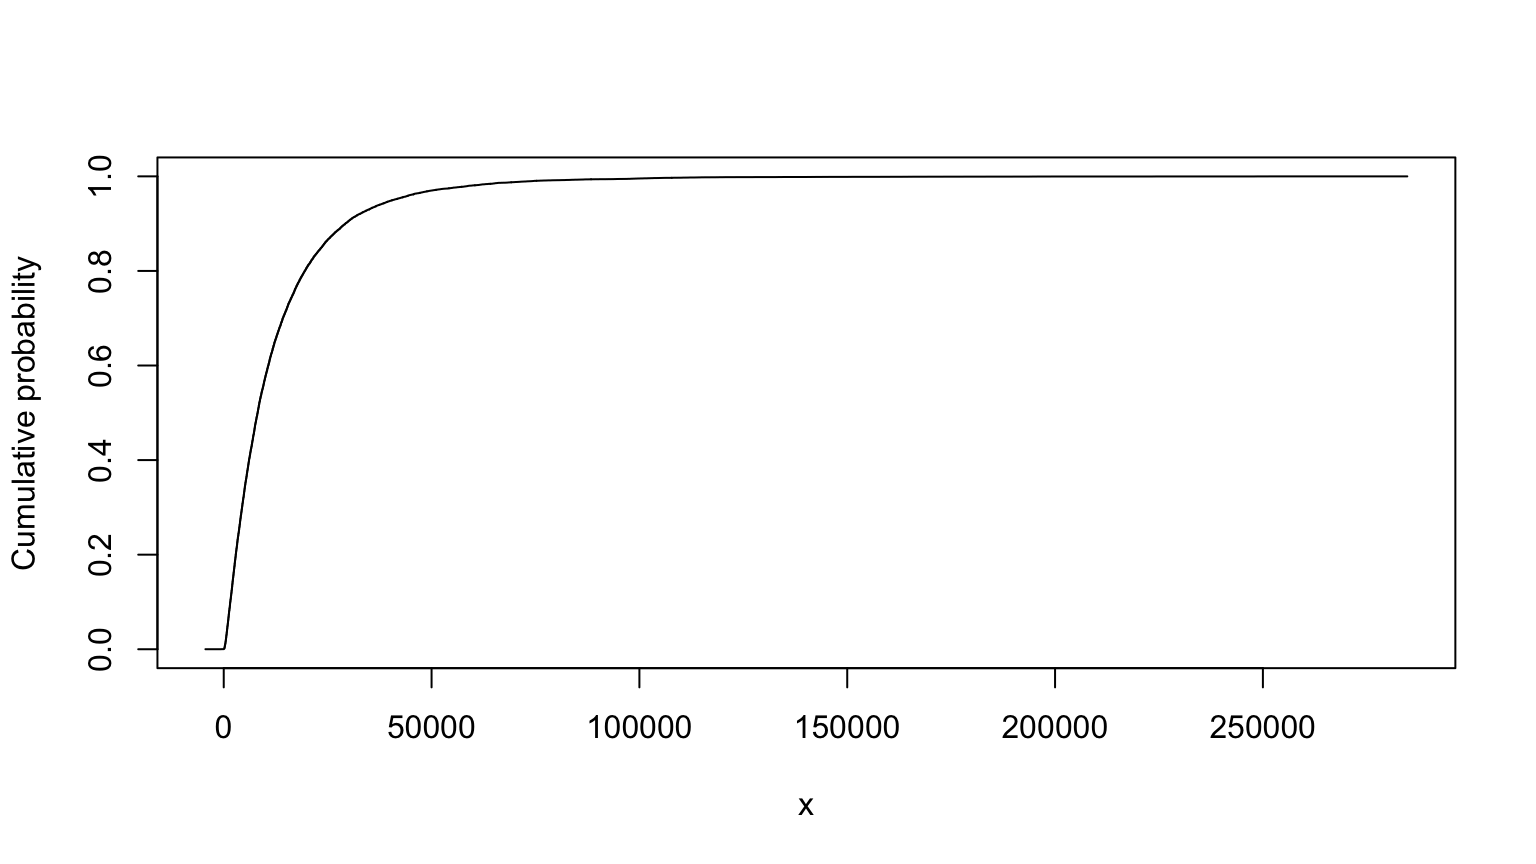
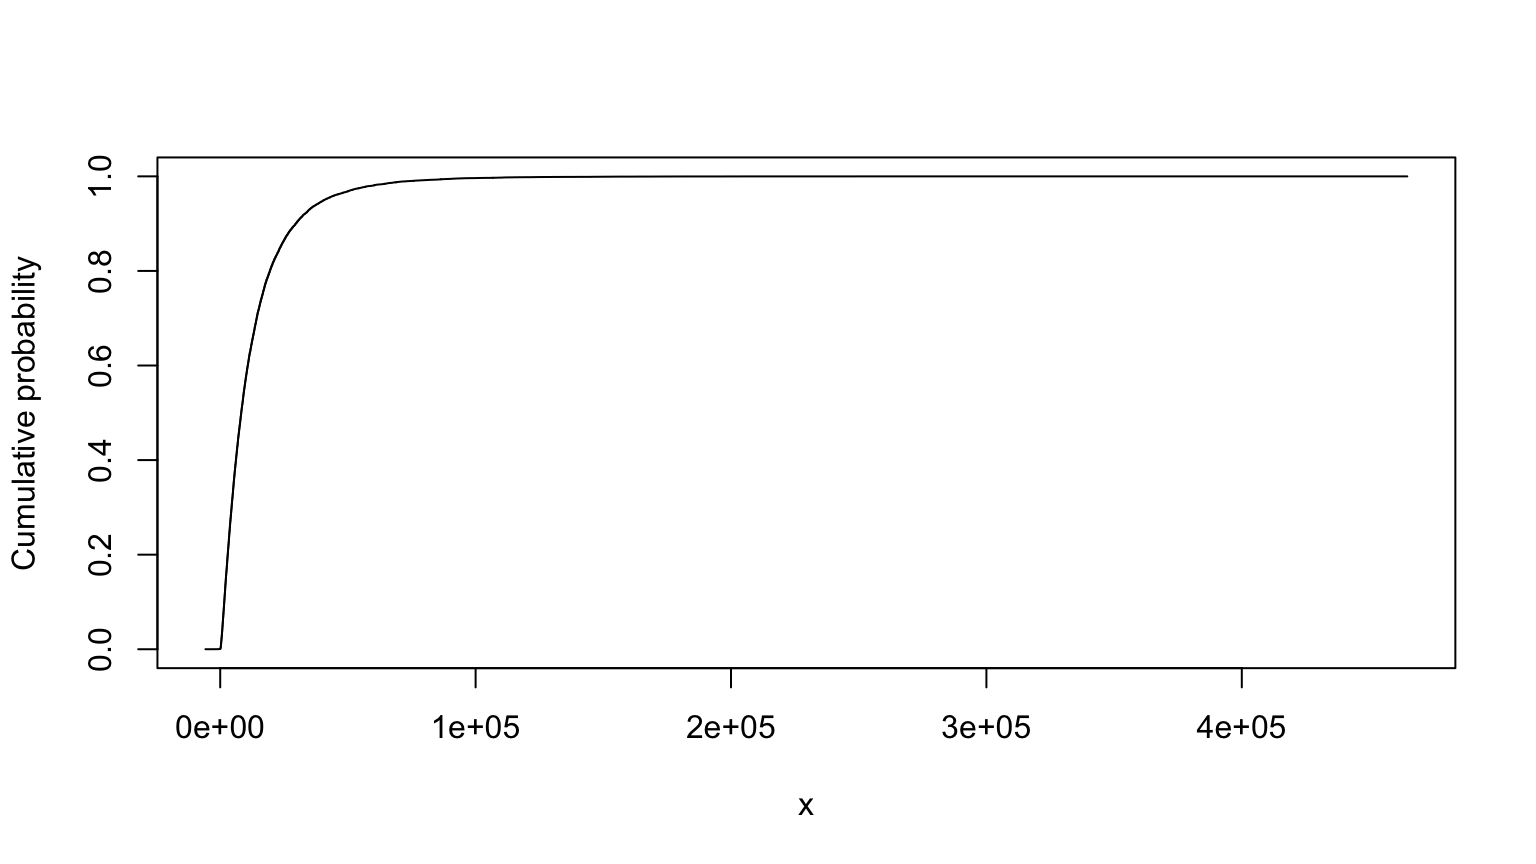
build_analysis_site() for release 1.0.16

diff --git a/docs/workshop.html b/docs/workshop.html
@@ -14,7 +14,7 @@
 
 <title>SRA Workshop 7</title>
 
-<script src="site_libs/header-attrs-2.23/header-attrs.js"></script>
+<script src="site_libs/header-attrs-2.24/header-attrs.js"></script>
 <script src="site_libs/jquery-3.6.0/jquery-3.6.0.min.js"></script>
 <meta name="viewport" content="width=device-width, initial-scale=1" />
 <link href="site_libs/bootstrap-3.3.5/css/bootstrap.min.css" rel="stylesheet" />
@@ -431,25 +431,25 @@ T &lt;- (n + BD * foc * Koc) * L / (K * i) # all variables assumed independent
 summary(T)</code></pre>
 <pre><code>## 
 ## Monte Carlo distribution summary
-##   Mean: 13010.02
-##   Variance: 249741838
-##   Std Deviation: 15803.22
-##   Width of interquartile range: 12994.79
-##   Width of overall range: 289122.8
+##   Mean: 13020.6
+##   Variance: 243741351
+##   Std Deviation: 15612.22
+##   Width of interquartile range: 12907.38
+##   Width of overall range: 470550.9
 ##   Order statistics
-##      Left (min) value: -4384.51
-##      1st percentile: 355.1352
-##      5th percentile: 930.3786
-##      25th percentile: 3652.059
-##      Median (50th%ile): 8152.966
-##      75th percentile: 16646.85
-##      95th percentile: 40666.13
-##      99th percentile: 74208.94
-##      Right (max) value: 284738.3
+##      Left (min) value: -5755.258
+##      1st percentile: 322.0654
+##      5th percentile: 929.6737
+##      25th percentile: 3673.525
+##      Median (50th%ile): 8243.558
+##      75th percentile: 16580.9
+##      95th percentile: 40786.8
+##      99th percentile: 73903.69
+##      Right (max) value: 464795.7
 ##   Replications: 20000</code></pre>
 <pre class="r"><code>T</code></pre>
 <p><img src="workshop_files/figure-html/T-1.png" width="768" /></p>
-<pre><code>## MC (min=-4384.5096484057, median=8152.96604184288, mean=13010.0155513066, max=284738.258430836)</code></pre>
+<pre><code>## MC (min=-5755.25808770771, median=8243.55765662944, mean=13020.5990639135, max=464795.684825082)</code></pre>
 <pre class="r"><code># nolint end</code></pre>
 <p>Truncated version, from slide 40:</p>
 <pre class="r"><code># nolint start
@@ -469,25 +469,25 @@ T &lt;- (n + BD * foc * Koc) * L / (K * i)
 summary(T)</code></pre>
 <pre><code>## 
 ## Monte Carlo distribution summary
-##   Mean: 12292.26
-##   Variance: 162235194
-##   Std Deviation: 12737.16
-##   Width of interquartile range: 12415.68
-##   Width of overall range: 129198
+##   Mean: 12176.79
+##   Variance: 156400649
+##   Std Deviation: 12506.02
+##   Width of interquartile range: 12313.84
+##   Width of overall range: 120542.6
 ##   Order statistics
-##      Left (min) value: 86.15108
-##      1st percentile: 409.5533
-##      5th percentile: 946.0121
-##      25th percentile: 3805.604
-##      Median (50th%ile): 8270.41
-##      75th percentile: 16221.29
-##      95th percentile: 37889.92
-##      99th percentile: 60482.54
-##      Right (max) value: 129284.2
+##      Left (min) value: 83.91045
+##      1st percentile: 381.3782
+##      5th percentile: 993.4511
+##      25th percentile: 3825.729
+##      Median (50th%ile): 8138.908
+##      75th percentile: 16139.57
+##      95th percentile: 37166.27
+##      99th percentile: 59363.52
+##      Right (max) value: 120626.5
 ##   Replications: 20000</code></pre>
 <pre class="r"><code>T</code></pre>
 <p><img src="workshop_files/figure-html/T_truncated-1.png" width="768" /></p>
-<pre><code>## MC (min=86.1510752628033, median=8270.40973405153, mean=12292.2628424022, max=129284.190969308)</code></pre>
+<pre><code>## MC (min=83.910449162993, median=8138.90758184003, mean=12176.7923273256, max=120626.485598163)</code></pre>
 <pre class="r"><code># nolint end</code></pre>
 <p>Maximum entropy version, from slide 70:</p>
 <p>T and Tind are pretty similar. In this case, the maximum entropy
@@ -506,25 +506,25 @@ Tind &lt;- (n + BD * foc * Koc) * L / (K * i)
 summary(Tind)</code></pre>
 <pre><code>## 
 ## Monte Carlo distribution summary
-##   Mean: 13870.6
-##   Variance: 229713524
-##   Std Deviation: 15156.3
-##   Width of interquartile range: 15357.99
-##   Width of overall range: 146966.5
+##   Mean: 14019.65
+##   Variance: 231998151
+##   Std Deviation: 15231.49
+##   Width of interquartile range: 15358.78
+##   Width of overall range: 161737.7
 ##   Order statistics
-##      Left (min) value: 92.90831
-##      1st percentile: 339.9302
-##      5th percentile: 946.0153
-##      25th percentile: 3634.461
-##      Median (50th%ile): 8417.248
-##      75th percentile: 18992.45
-##      95th percentile: 44922.04
-##      99th percentile: 70276.94
-##      Right (max) value: 147059.4
+##      Left (min) value: 78.2941
+##      1st percentile: 334.1201
+##      5th percentile: 942.793
+##      25th percentile: 3731.272
+##      Median (50th%ile): 8614.646
+##      75th percentile: 19090.05
+##      95th percentile: 44875.82
+##      99th percentile: 70952.71
+##      Right (max) value: 161816
 ##   Replications: 20000</code></pre>
 <pre class="r"><code>Tind</code></pre>
 <p><img src="workshop_files/figure-html/Tind-1.png" width="768" /></p>
-<pre><code>## MC (min=92.9083074200587, median=8417.24759081494, mean=13870.5955474431, max=147059.391390288)</code></pre>
+<pre><code>## MC (min=78.2941028686568, median=8614.64627911851, mean=14019.6521202794, max=161815.978584815)</code></pre>
 <pre class="r"><code># nolint end</code></pre>
 </div>
 <div id="probability-bounds-analysis" class="section level1">

diff --git a/docs/news/index.html b/docs/news/index.html
@@ -17,7 +17,7 @@
       </button>
       <span class="navbar-brand">
         <a class="navbar-link" href="../index.html">workshop7</a>
-        <span class="version label label-default" data-toggle="tooltip" data-placement="bottom" title="">1.0.15</span>
+        <span class="version label label-default" data-toggle="tooltip" data-placement="bottom" title="">1.0.16</span>
       </span>
     </div>
 
@@ -60,6 +60,10 @@
       <small>Source: <a href="https://github.com/jabenninghoff/workshop7/blob/HEAD/NEWS.md" class="external-link"><code>NEWS.md</code></a></small>
     </div>
 
+    <div class="section level2">
+<h2 class="page-header" data-toc-text="1.0.16" id="workshop7-1016">workshop7 1.0.16<a class="anchor" aria-label="anchor" href="#workshop7-1016"></a></h2>
+<ul><li>Maintenance updates</li>
+</ul></div>
     <div class="section level2">
 <h2 class="page-header" data-toc-text="1.0.15" id="workshop7-1015">workshop7 1.0.15<a class="anchor" aria-label="anchor" href="#workshop7-1015"></a></h2>
 <ul><li>Maintenance updates</li>

diff --git a/docs/404.html b/docs/404.html
@@ -32,7 +32,7 @@
       </button>
       <span class="navbar-brand">
         <a class="navbar-link" href="https://jabenninghoff.github.io/workshop7/index.html">workshop7</a>
-        <span class="version label label-default" data-toggle="tooltip" data-placement="bottom" title="">1.0.15</span>
+        <span class="version label label-default" data-toggle="tooltip" data-placement="bottom" title="">1.0.16</span>
       </span>
     </div>
 

diff --git a/docs/workshop-notes.html b/docs/workshop-notes.html
@@ -14,7 +14,7 @@
 
 <title>SRA Workshop 7 Notes</title>
 
-<script src="site_libs/header-attrs-2.23/header-attrs.js"></script>
+<script src="site_libs/header-attrs-2.24/header-attrs.js"></script>
 <script src="site_libs/jquery-3.6.0/jquery-3.6.0.min.js"></script>
 <meta name="viewport" content="width=device-width, initial-scale=1" />
 <link href="site_libs/bootstrap-3.3.5/css/bootstrap.min.css" rel="stylesheet" />

diff --git a/docs/reference/index.html b/docs/reference/index.html
@@ -17,7 +17,7 @@
       </button>
       <span class="navbar-brand">
         <a class="navbar-link" href="../index.html">workshop7</a>
-        <span class="version label label-default" data-toggle="tooltip" data-placement="bottom" title="">1.0.15</span>
+        <span class="version label label-default" data-toggle="tooltip" data-placement="bottom" title="">1.0.16</span>
       </span>
     </div>
 

diff --git a/docs/reference/workshop7-package.html b/docs/reference/workshop7-package.html
@@ -17,7 +17,7 @@
       </button>
       <span class="navbar-brand">
         <a class="navbar-link" href="../index.html">workshop7</a>
-        <span class="version label label-default" data-toggle="tooltip" data-placement="bottom" title="">1.0.15</span>
+        <span class="version label label-default" data-toggle="tooltip" data-placement="bottom" title="">1.0.16</span>
       </span>
     </div>
 

diff --git a/docs/LICENSE-text.html b/docs/LICENSE-text.html
@@ -17,7 +17,7 @@
       </button>
       <span class="navbar-brand">
         <a class="navbar-link" href="index.html">workshop7</a>
-        <span class="version label label-default" data-toggle="tooltip" data-placement="bottom" title="">1.0.15</span>
+        <span class="version label label-default" data-toggle="tooltip" data-placement="bottom" title="">1.0.16</span>
       </span>
     </div>
 

diff --git a/docs/LICENSE.html b/docs/LICENSE.html
@@ -17,7 +17,7 @@
       </button>
       <span class="navbar-brand">
         <a class="navbar-link" href="index.html">workshop7</a>
-        <span class="version label label-default" data-toggle="tooltip" data-placement="bottom" title="">1.0.15</span>
+        <span class="version label label-default" data-toggle="tooltip" data-placement="bottom" title="">1.0.16</span>
       </span>
     </div>
 

diff --git a/docs/TODO.html b/docs/TODO.html
@@ -17,7 +17,7 @@
       </button>
       <span class="navbar-brand">
         <a class="navbar-link" href="index.html">workshop7</a>
-        <span class="version label label-default" data-toggle="tooltip" data-placement="bottom" title="">1.0.15</span>
+        <span class="version label label-default" data-toggle="tooltip" data-placement="bottom" title="">1.0.16</span>
       </span>
     </div>
 

diff --git a/docs/authors.html b/docs/authors.html
@@ -17,7 +17,7 @@
       </button>
       <span class="navbar-brand">
         <a class="navbar-link" href="index.html">workshop7</a>
-        <span class="version label label-default" data-toggle="tooltip" data-placement="bottom" title="">1.0.15</span>
+        <span class="version label label-default" data-toggle="tooltip" data-placement="bottom" title="">1.0.16</span>
       </span>
     </div>
 

diff --git a/docs/index.html b/docs/index.html
@@ -34,7 +34,7 @@
       </button>
       <span class="navbar-brand">
         <a class="navbar-link" href="index.html">workshop7</a>
-        <span class="version label label-default" data-toggle="tooltip" data-placement="bottom" title="">1.0.15</span>
+        <span class="version label label-default" data-toggle="tooltip" data-placement="bottom" title="">1.0.16</span>
       </span>
     </div>
 
